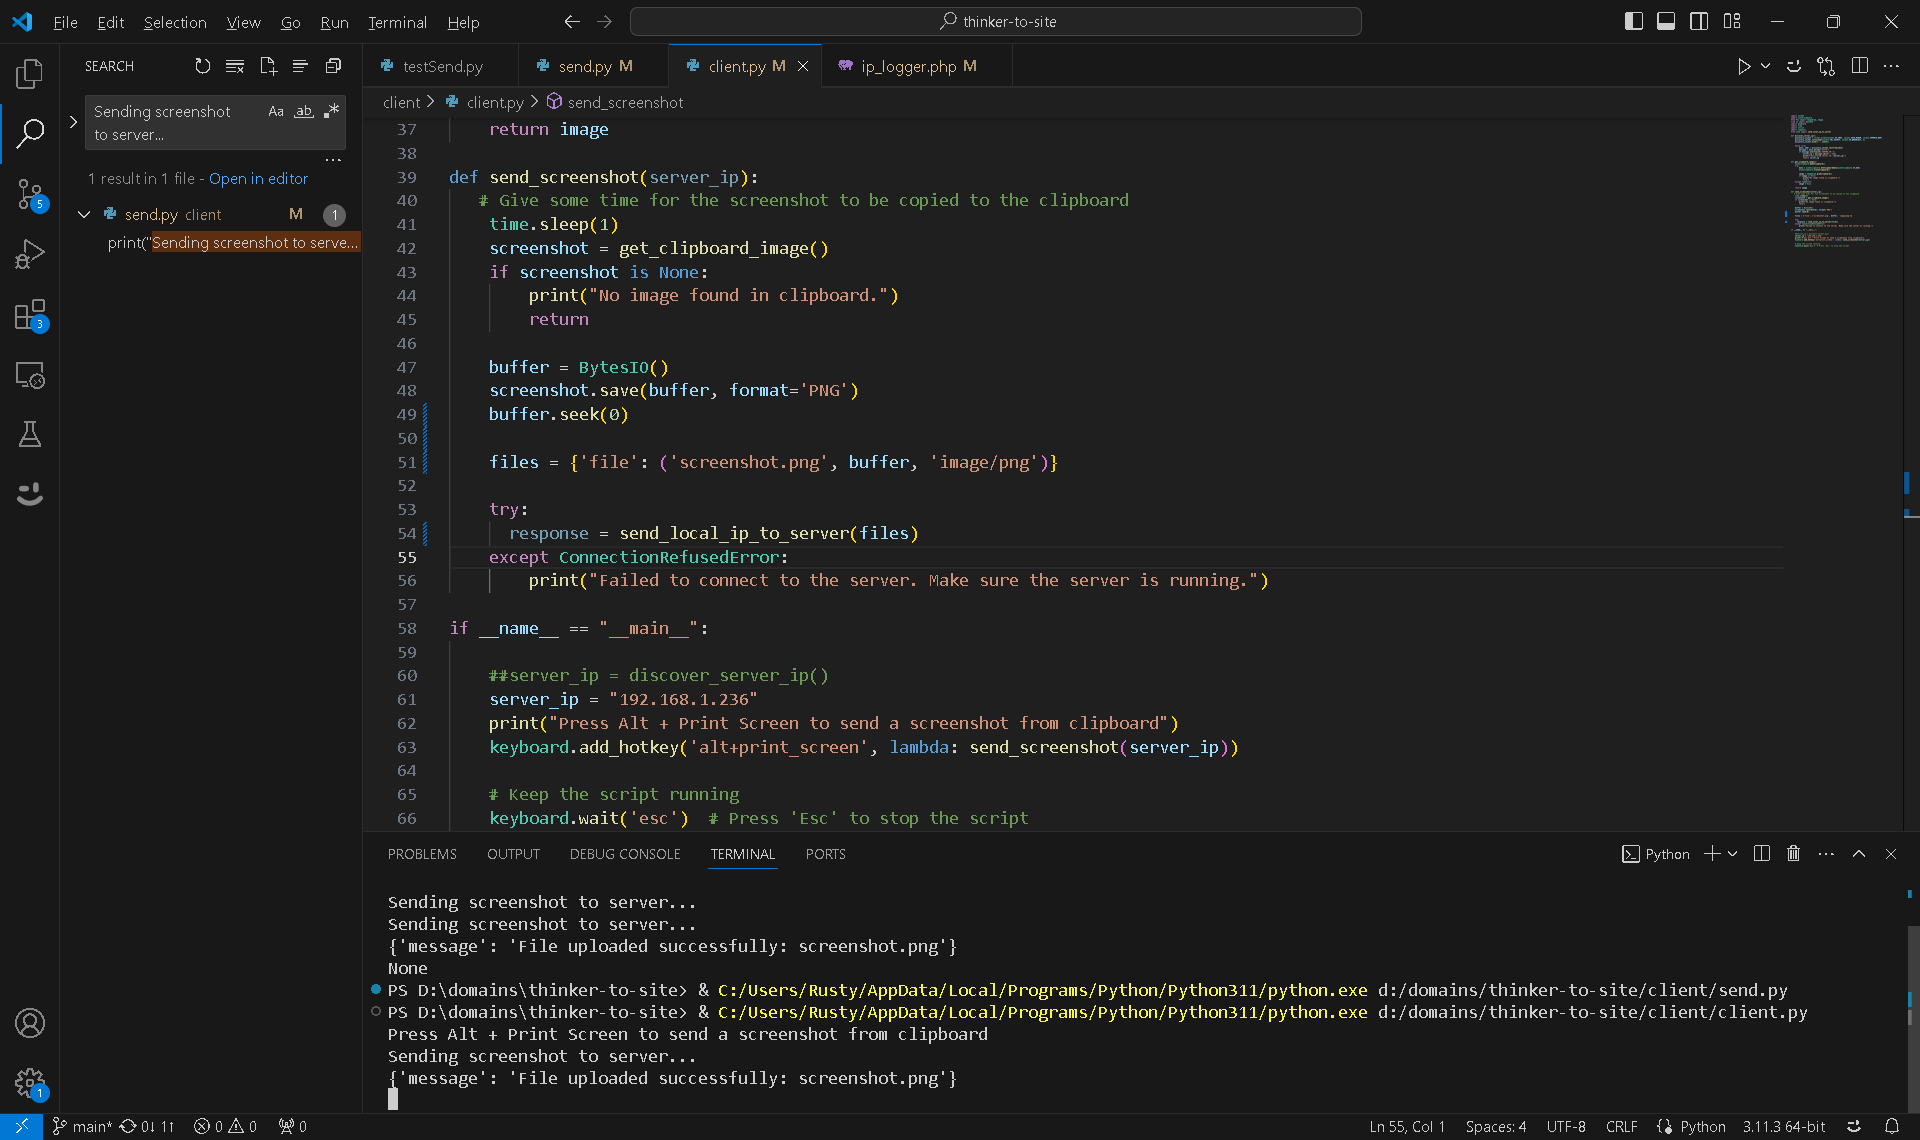
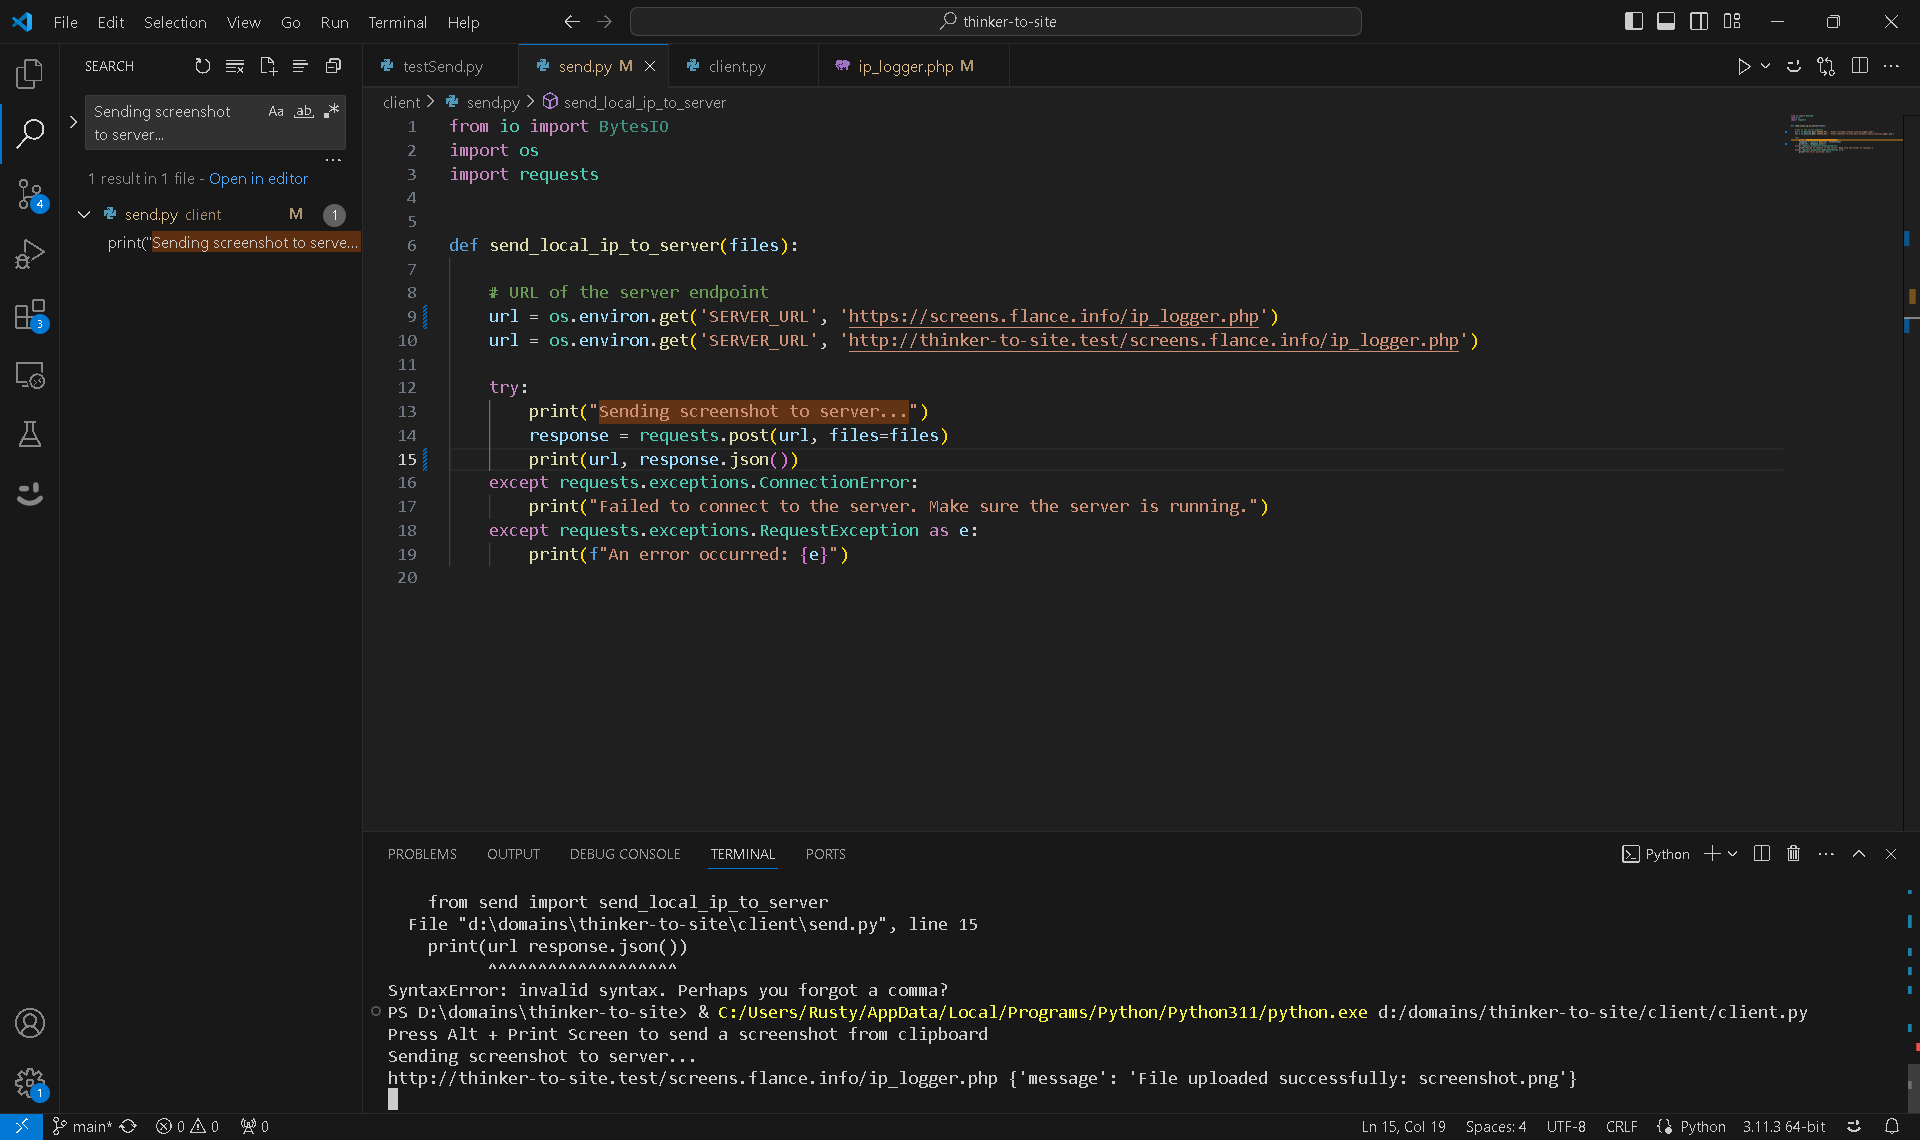
send image fixes

diff --git a/client/send.py b/client/send.py
@@ -6,14 +6,14 @@ import requests
 def send_local_ip_to_server(files):
 
     # URL of the server endpoint
-   ## url = os.environ.get('SERVER_URL', 'http://screens.flance.info/ip_logger.php')
-    url = os.environ.get('SERVER_URL', 'http://thinker-to-site.test/screens.flance.info/ip_logger.php')
+    url = os.environ.get('SERVER_URL', 'https://screens.flance.info/ip_logger.php')
+    # url = os.environ.get('SERVER_URL', 'http://thinker-to-site.test/screens.flance.info/ip_logger.php')
 
     try:
         print("Sending screenshot to server...")
         response = requests.post(url, files=files)
-        print(response.json())
+        print(url, response.json())
     except requests.exceptions.ConnectionError:
-        print("Failed to connect to the server. Make sure the server is running.")
+        print(url, "Failed to connect to the server. Make sure the server is running.")
     except requests.exceptions.RequestException as e:
         print(f"An error occurred: {e}")

diff --git a/screens.flance.info/ip_logger.php b/screens.flance.info/ip_logger.php
@@ -41,5 +41,8 @@ if ($_SERVER['REQUEST_METHOD'] === 'POST') {
         http_response_code(400);
         echo json_encode(['message' => 'No file provided or file upload error.']);
     }
+    
 }
+
+
 ?>
